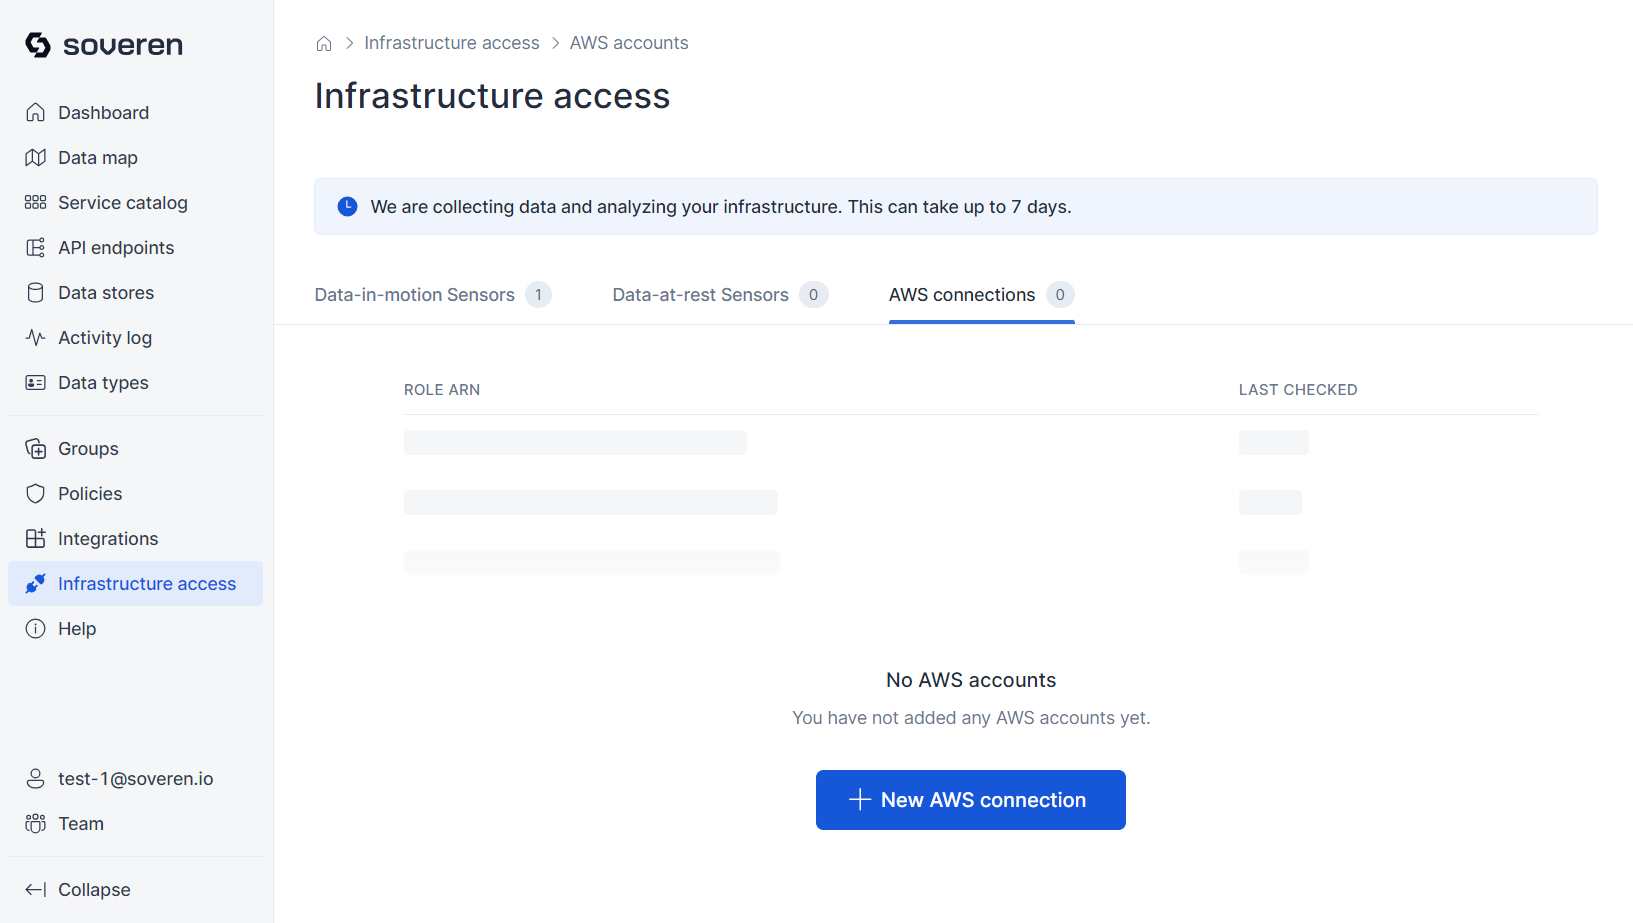
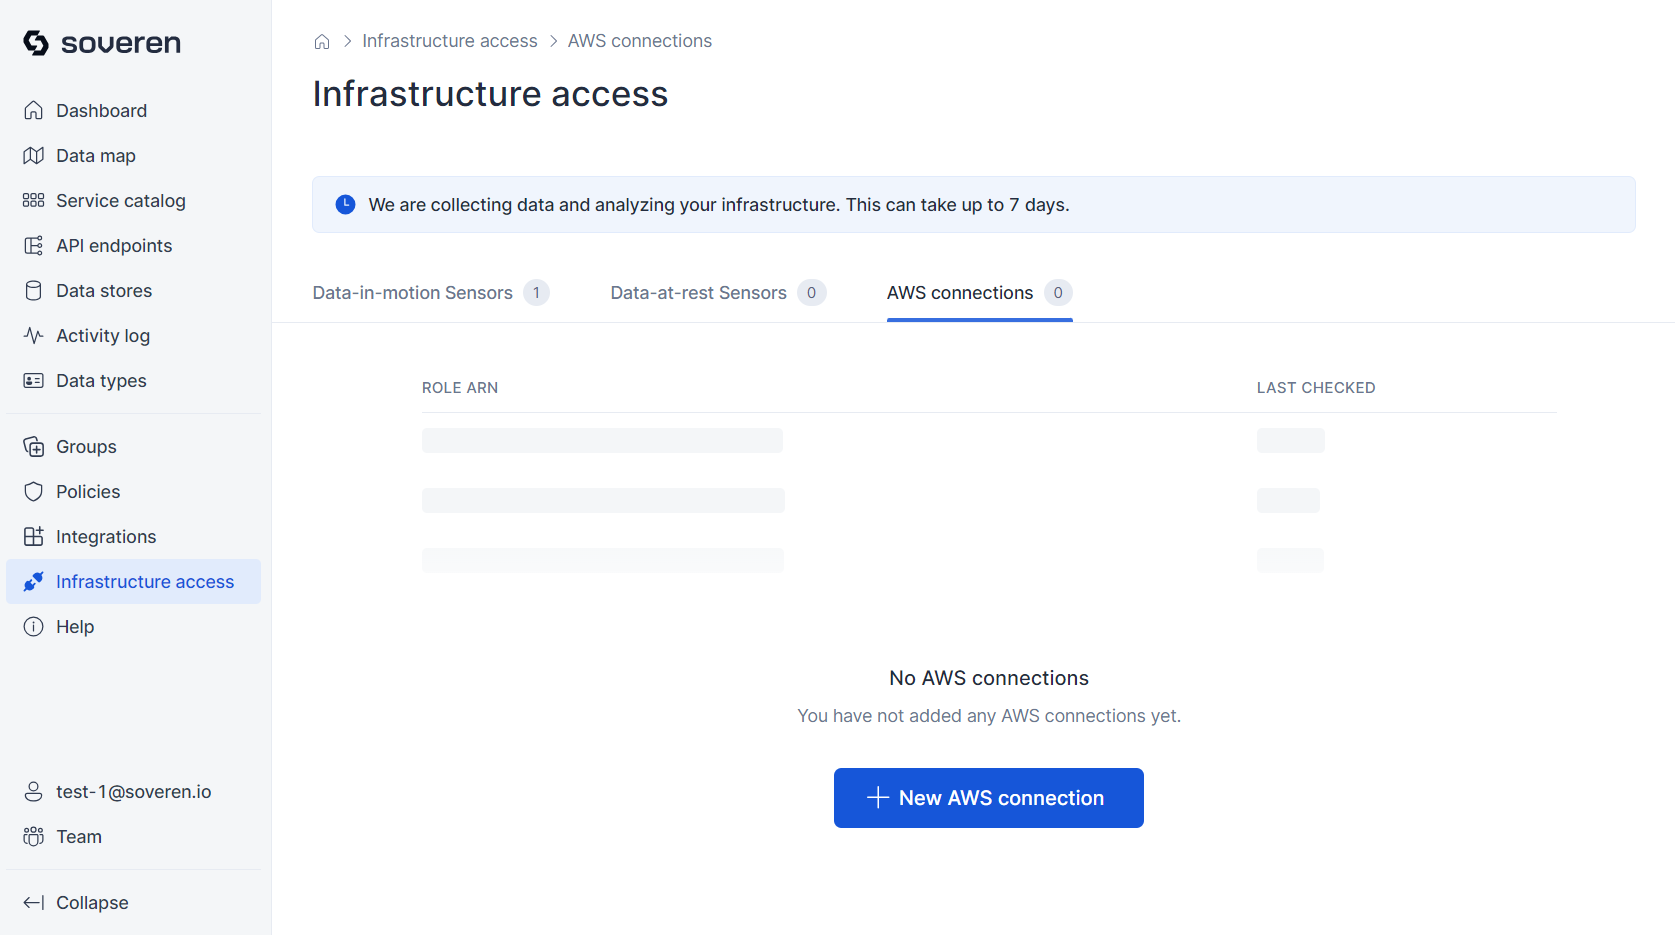
AWS connections page

diff --git a/docs/administration/aws-connections.md b/docs/administration/aws-connections.md
@@ -1,6 +1,6 @@
 # AWS Connections
 
-You can configure Soveren to access your AWS account for automatic discovery of your data storage, including managed Kafka clusters and databases.
+You can configure Soveren to access your AWS account for automatic discovery of your data storages, including managed databases and Kafka clusters.
 
 ## New AWS Connection
 
